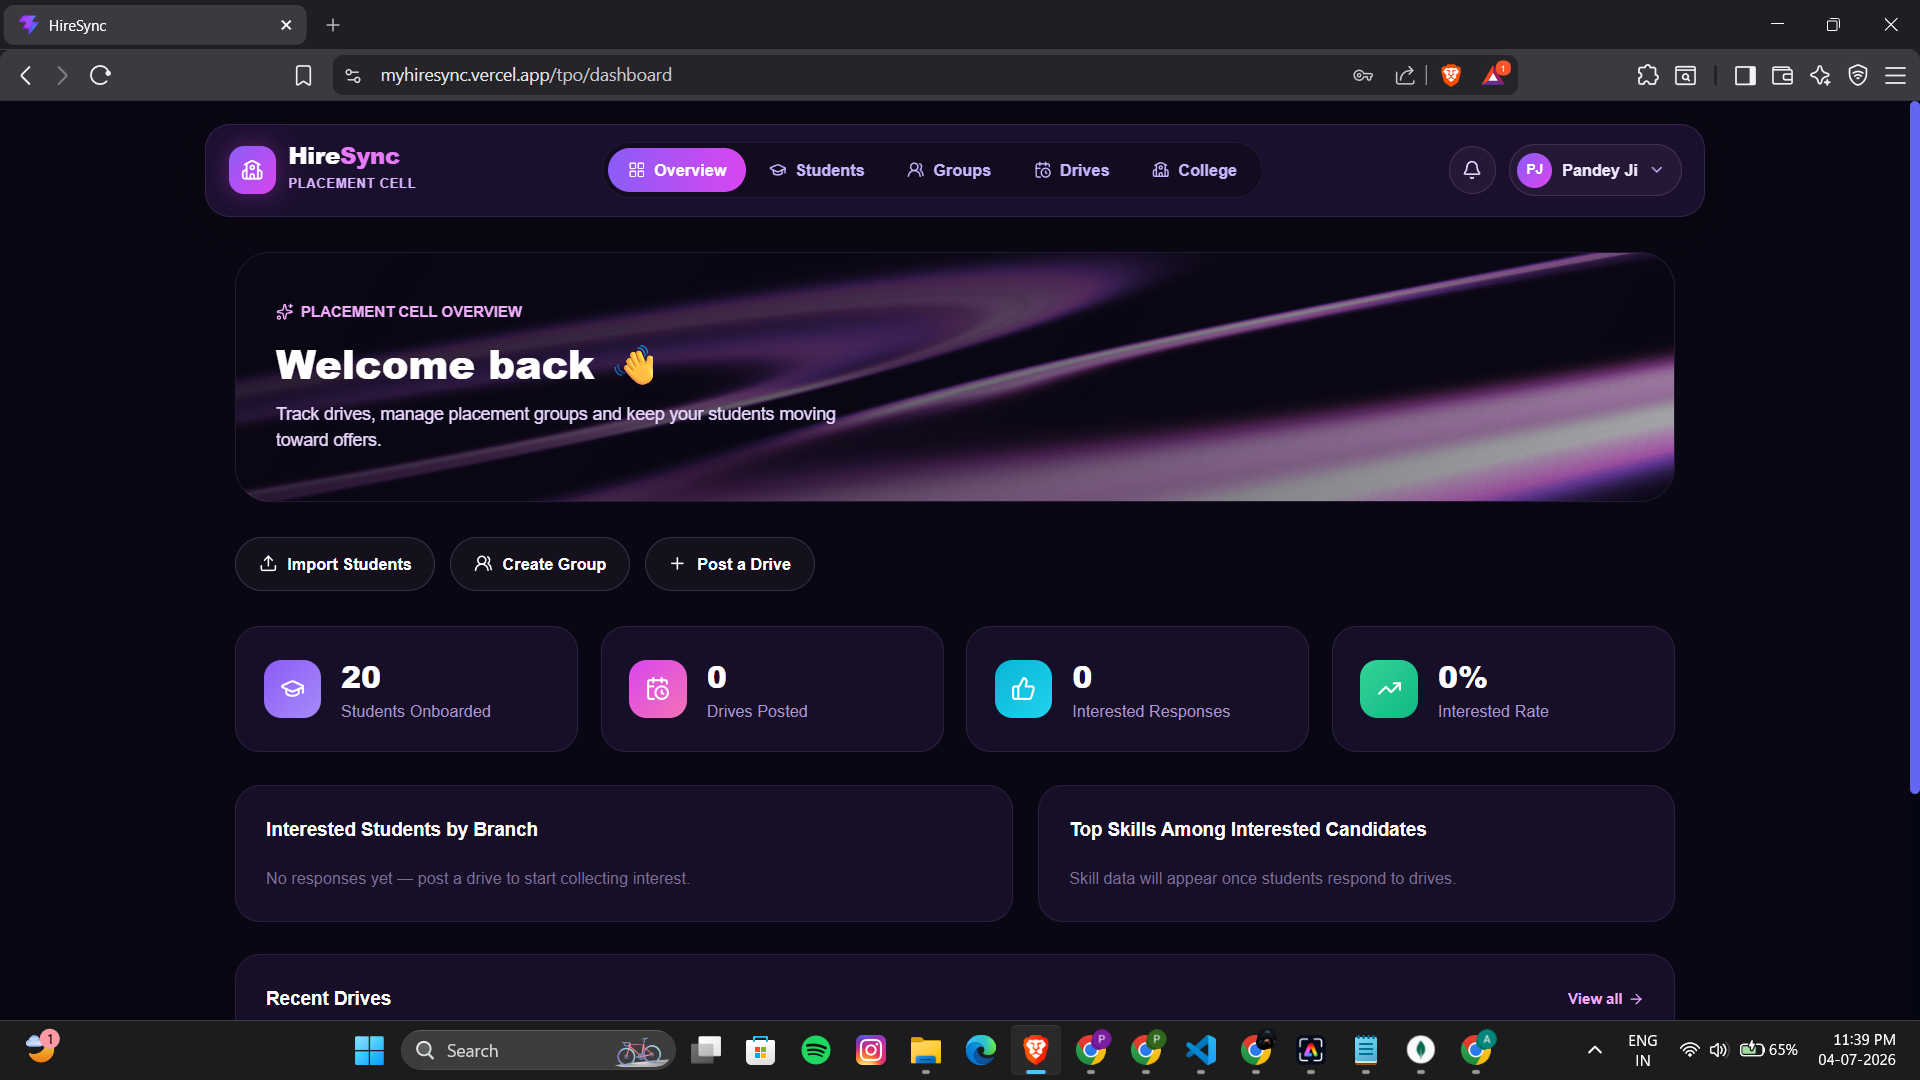
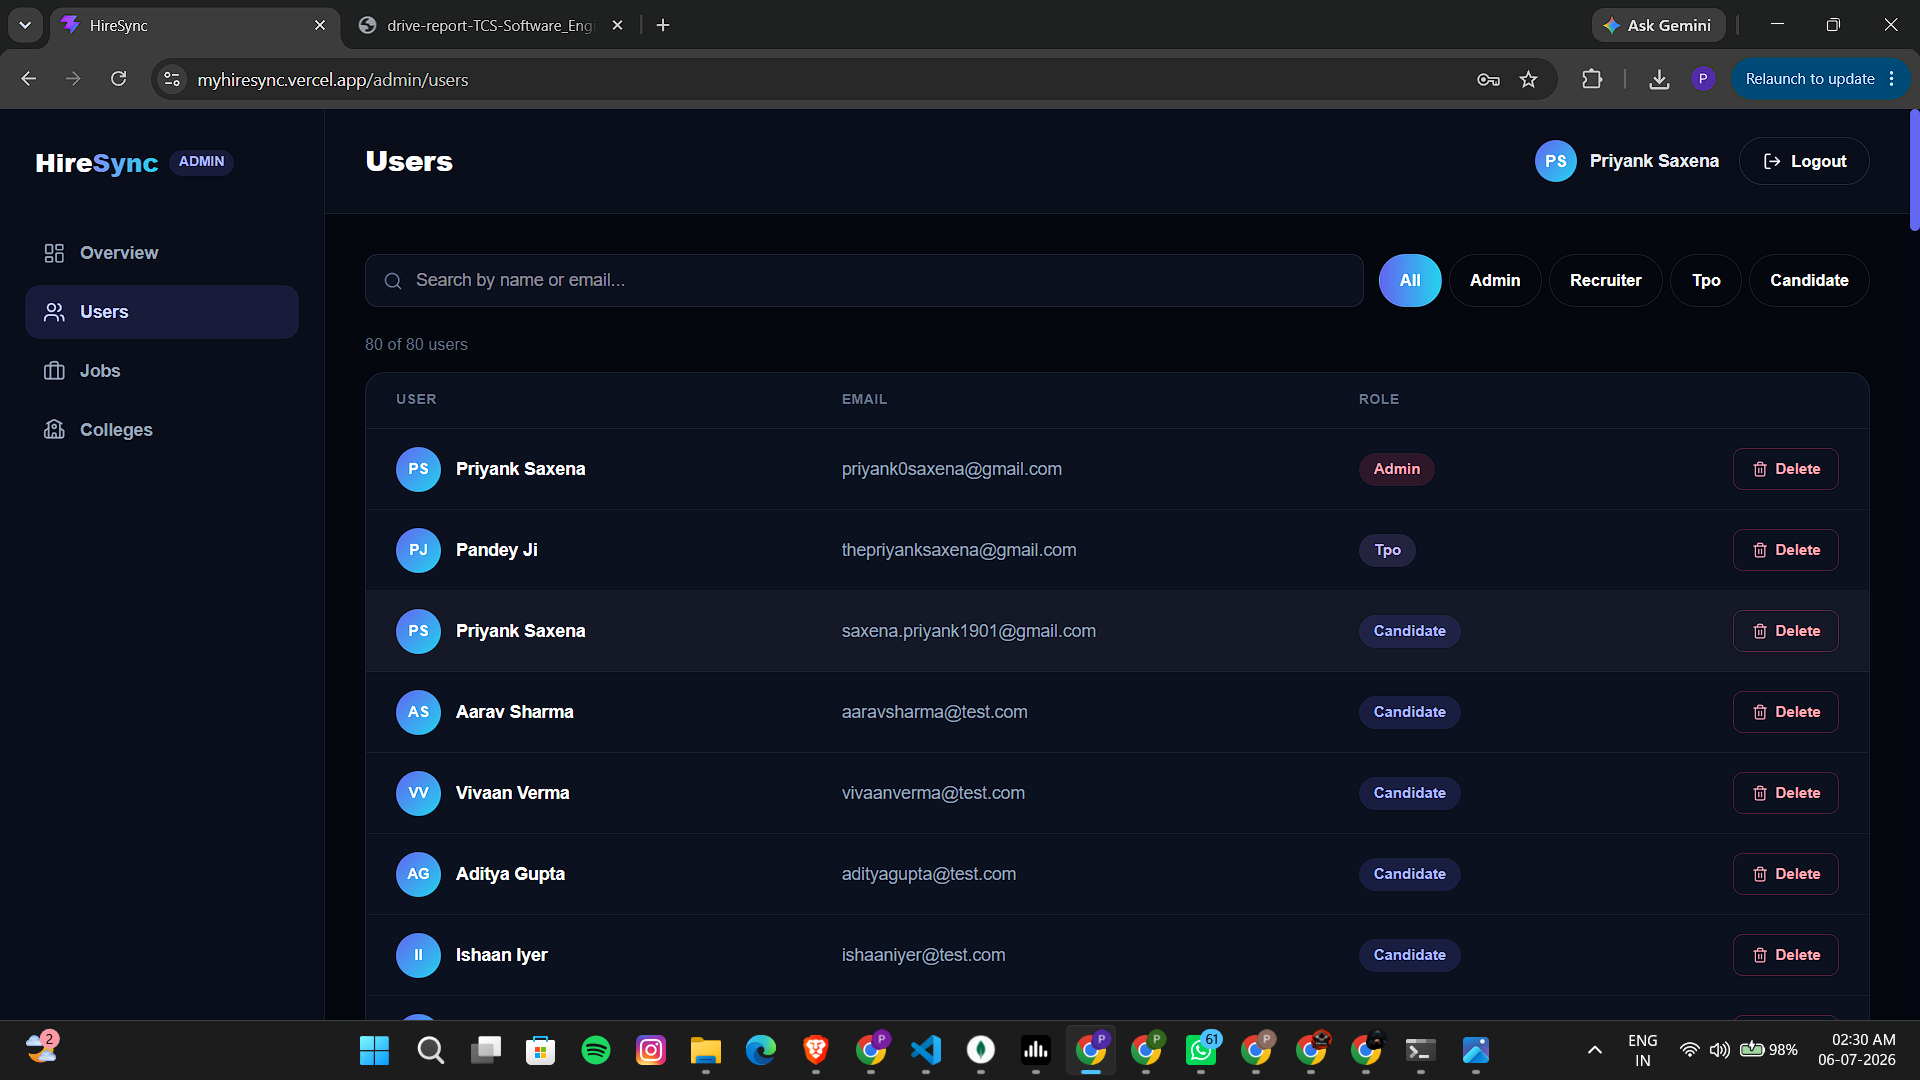
Readme Screenshots updated

diff --git a/README.md b/README.md
@@ -64,17 +64,43 @@ It was built incrementally across six phases — starting from core auth/jobs/ap
 
 *Live deployment — deployed frontend + this backend, connected end-to-end.*
 
-| Landing Page | Admin Dashboard |
-|---|---|
-| ![HireSync landing page](screenshots/01-landing-page.png) | ![Admin overview dashboard](screenshots/02-admin-dashboard.png) |
+### Dashboards
 
-| TPO / Placement Cell Dashboard | Recruiter Dashboard |
+| Recruiter Dashboard | TPO / Placement Cell Dashboard |
 |---|---|
-| ![TPO placement cell dashboard](screenshots/03-tpo-dashboard.png) | ![Recruiter hiring dashboard](screenshots/05-recruiter-dashboard.png) |
+| ![Recruiter hiring dashboard](screenshots/02-recruiter-dashboard.png) | ![TPO placement cell dashboard](screenshots/03-tpo-dashboard.png) |
 
 <div align="center">
-<img src="screenshots/04-candidate-dashboard.png" alt="Candidate dashboard" width="600"/>
+<img src="screenshots/04-candidate-dashboard.png" alt="Candidate dashboard" width="700"/>
 <br/><em>Candidate Dashboard</em>
+</div>
+
+### Off-Campus Flow
+
+| Recruiter — My Jobs | Candidate — Browse Jobs |
+|---|---|
+| ![Recruiter job postings](screenshots/05-recruiter-jobs.png) | ![Candidate browsing open jobs](screenshots/06-candidate-browse-jobs.png) |
+
+<div align="center">
+<img src="screenshots/07-candidate-applications.png" alt="Candidate application tracking" width="700"/>
+<br/><em>My Applications — live status tracking (Pending / Accepted / Rejected)</em>
+</div>
+
+### On-Campus Flow
+
+| Campus Drives (Candidate View) | TPO — Student Roster |
+|---|---|
+| ![Candidate responding to campus drives](screenshots/08-candidate-campus-drives.png) | ![TPO students roster with skill tags](screenshots/09-tpo-students.png) |
+
+| Placement Groups | Generated Drive Report (PDF) |
+|---|---|
+| ![Manually managed placement groups](screenshots/10-tpo-placement-groups.png) | ![Auto-generated campus drive PDF report](screenshots/11-drive-report-pdf.png) |
+
+### Admin
+
+<div align="center">
+<img src="screenshots/12-admin-users.png" alt="Admin user management panel" width="700"/>
+<br/><em>Admin Panel — role-based user management across all four roles</em>
 </div>
 
 ---
